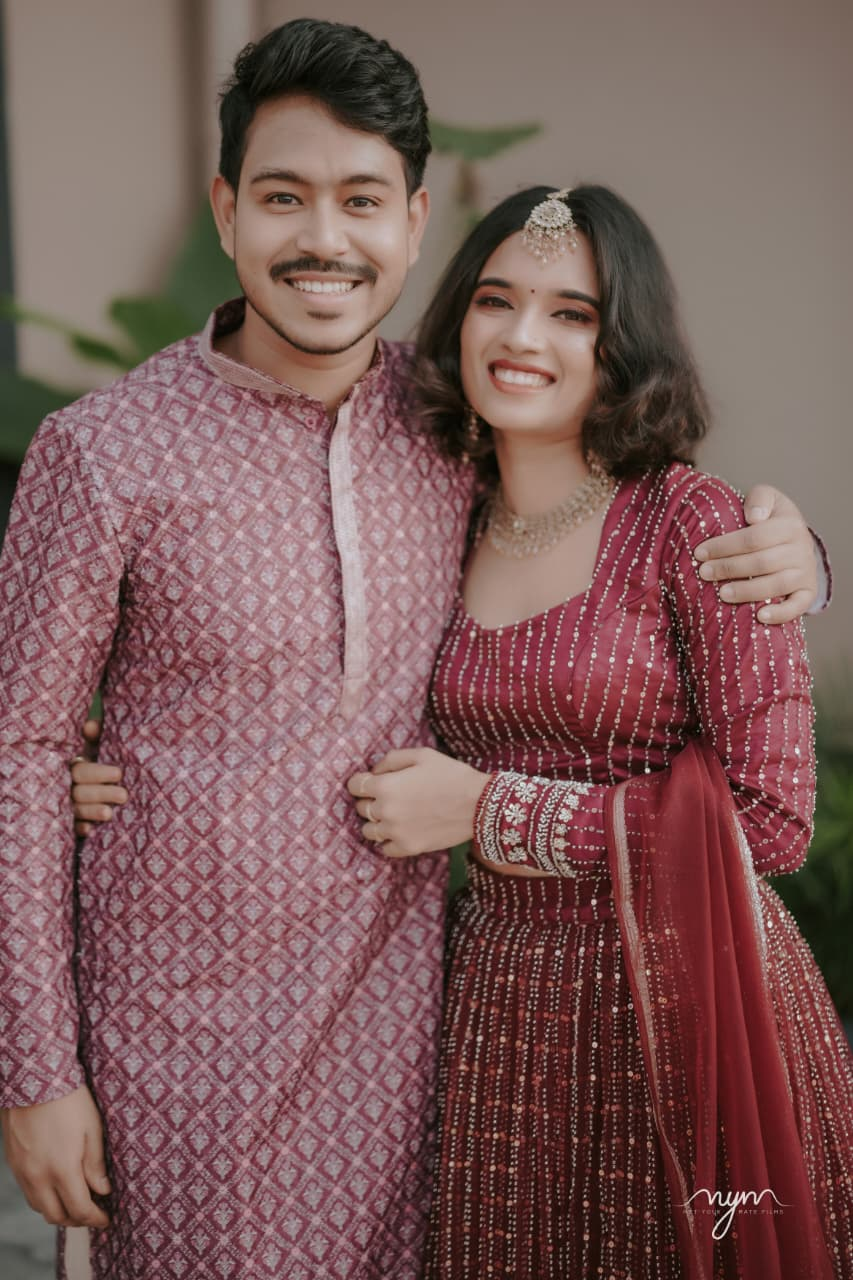
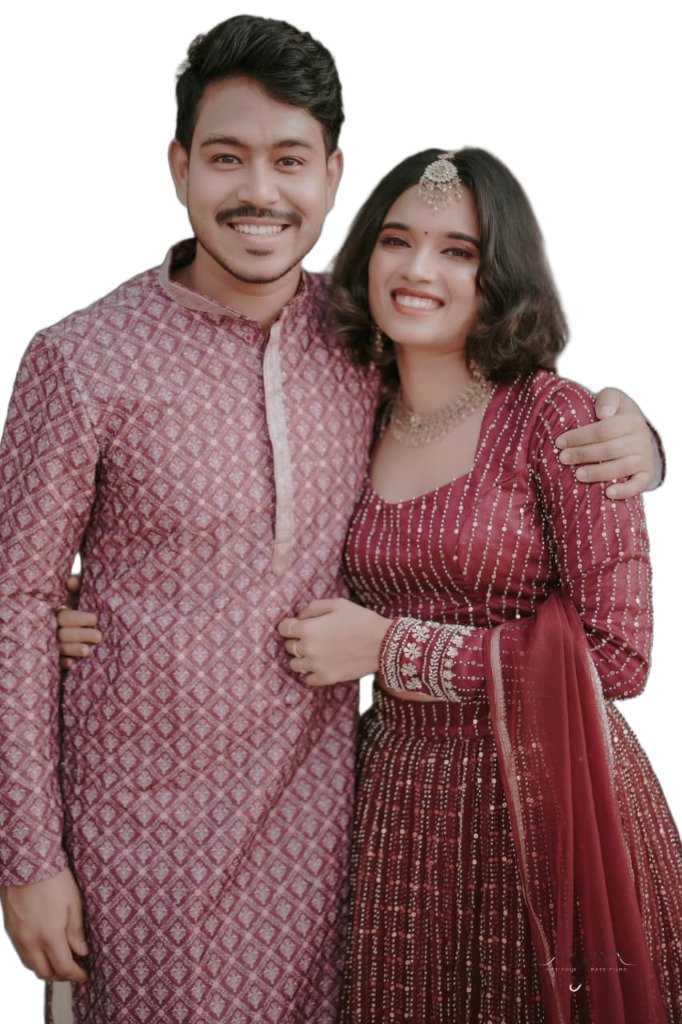
Replace first page hero image with background-removed couple photo

diff --git a/src/components/wedding/Hero.tsx b/src/components/wedding/Hero.tsx
@@ -112,9 +112,9 @@ export function Hero() {
           <div className="relative w-full overflow-hidden">
             <img
               src={images.cartoon}
-              alt={`${wedding.bride.name} & ${wedding.groom.name} — illustrated portrait`}
-              width={408}
-              height={612}
+              alt={`${wedding.bride.name} & ${wedding.groom.name} — wedding portrait`}
+              width={682}
+              height={1024}
               className="h-auto w-full brightness-105 contrast-105"
             />
             <div className="pointer-events-none absolute inset-0 bg-gradient-to-t from-emerald-deep/60 via-transparent to-transparent" />

diff --git a/src/routes/index.tsx b/src/routes/index.tsx
@@ -44,7 +44,12 @@ export const Route = createFileRoute("/")({
 });
 
 function Invitation() {
-  const [opened, setOpened] = useState(false);
+  const [opened, setOpened] = useState(() => {
+    if (typeof window !== "undefined") {
+      return new URLSearchParams(window.location.search).has("opened");
+    }
+    return false;
+  });
 
   useEffect(() => {
     document.body.style.overflow = opened ? "" : "hidden";
